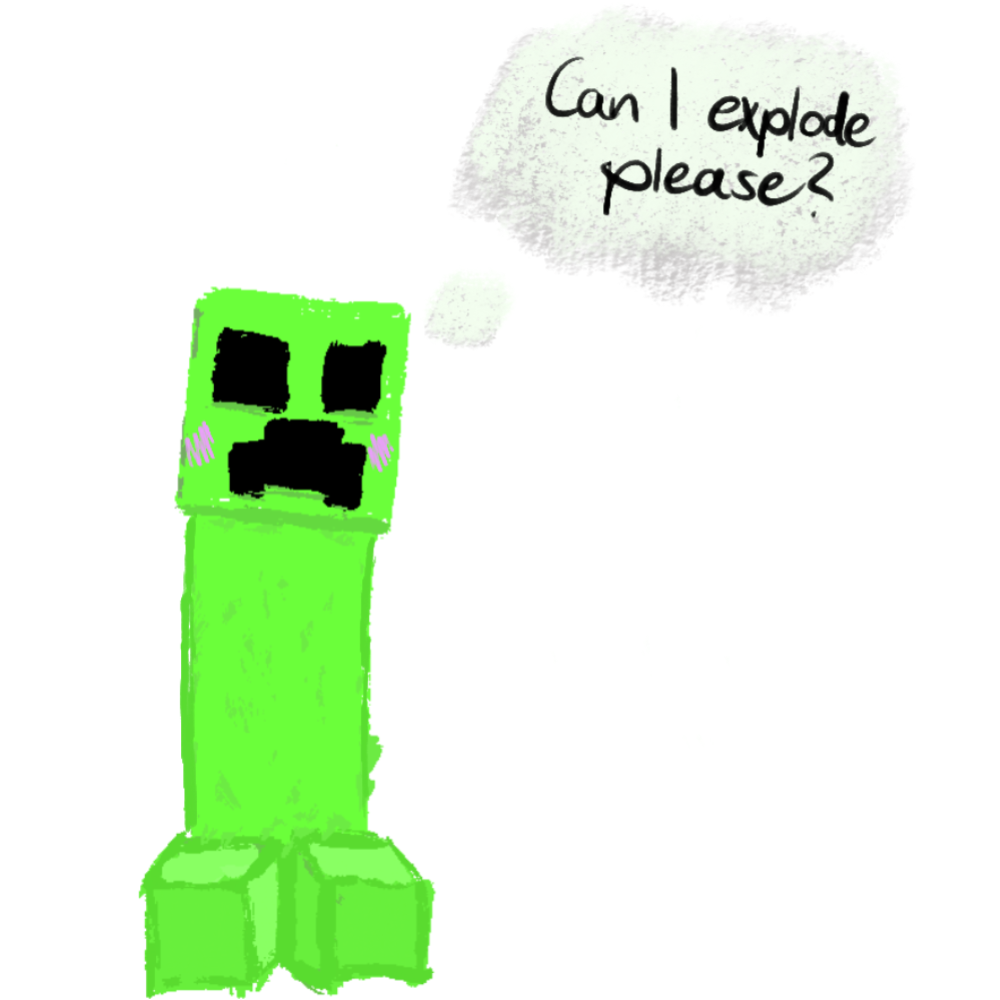
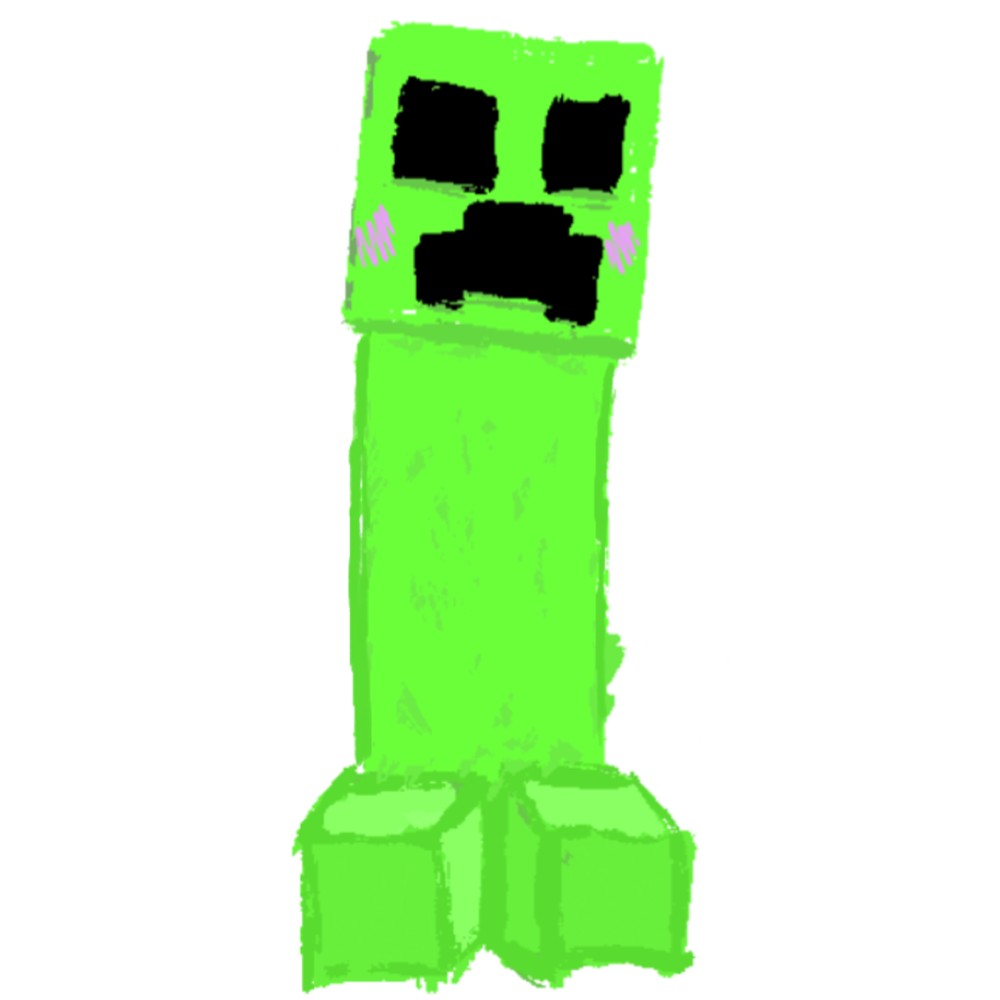
New Screen layout, and README fix

diff --git a/src/client/kotlin/wuritz/bcc/client/screens/ConsentScreen.kt b/src/client/kotlin/wuritz/bcc/client/screens/ConsentScreen.kt
@@ -10,7 +10,7 @@ import net.minecraft.client.gui.components.StringWidget
 import net.minecraft.client.gui.components.Tooltip
 import net.minecraft.client.gui.screens.Screen
 import net.minecraft.network.chat.Component
-import wuritz.bcc.client.utils.CreeperPersonalities
+import wuritz.bcc.BetterCreeperConsent
 import wuritz.bcc.client.utils.Creepers
 import wuritz.bcc.client.utils.RenderUtils
 import wuritz.bcc.network.payloads.ResponsePayload
@@ -20,6 +20,7 @@ class ConsentScreen(val creeperId: Int) : Screen(Component.literal("Consent")) {
 
     val creeper = Creepers().getRandomCreeper()
     val creeperVisual = Creepers().getImage(creeper.imagePath)
+    val signId = BetterCreeperConsent.id("others/sign.png")
 
     // box
     val BOX_WIDTH = 230
@@ -35,6 +36,9 @@ class ConsentScreen(val creeperId: Int) : Screen(Component.literal("Consent")) {
     val totalButtonWidth = 150
 
     override fun init() {
+        /**
+         * Text
+         */
         addRenderableWidget(StringWidget(Component.literal("A creeper is asking for permission to explode."), Minecraft.getInstance().font))
             .setPosition(width / 2 - RenderUtils.getTextWidth("A creeper is asking for permission to explode.") / 2,
                 height / 8)
@@ -42,12 +46,22 @@ class ConsentScreen(val creeperId: Int) : Screen(Component.literal("Consent")) {
             .setPosition(width / 2 - RenderUtils.getTextWidth("Make your decision!") / 2,
                 height / 8 + Minecraft.getInstance().font.lineHeight + 5)
 
-        addRenderableWidget(ImageWidget.texture(250, 250, creeperVisual, 250, 250))
+        /**
+         * Pictures
+         */
+        addRenderableWidget(ImageWidget.texture(200, 200, creeperVisual, 200, 200))
             .setPosition(getPictureX(), getPictureY())
 
+        addRenderableWidget(ImageWidget.texture(100, 50, signId, 100, 50))
+            .setPosition(getPictureX() + 50, (height * 0.75 - 73).toInt())
+        addRenderableWidget(StringWidget(Component.literal("Helobelo :3"), Minecraft.getInstance().font))
+            .setPosition(getPictureX() + 50 + 25, (height * 0.75 - 73 + 20).toInt())
+
         /**
-         * Allow
+         * Buttons
          */
+
+        // Allow
         addRenderableWidget(Button.builder(Component.literal(creeper.answers.allow)) { b -> pressedAllow() }
             .bounds(getButtonX(), getAllowButtonY(), totalButtonWidth, BUTTON_HEIGHT)
             .tooltip(Tooltip.create(Component.literal(
@@ -55,9 +69,7 @@ class ConsentScreen(val creeperId: Int) : Screen(Component.literal("Consent")) {
             ).withStyle(ChatFormatting.GREEN)))
             .build())
 
-        /**
-         * Deny
-         */
+        // Deny
         addRenderableWidget(Button.builder(Component.literal(creeper.answers.deny)) { b -> pressedDeny() }
             .bounds(getButtonX(), getDenyButtonY(), totalButtonWidth, BUTTON_HEIGHT)
             .tooltip(Tooltip.create(Component.literal(
@@ -65,9 +77,7 @@ class ConsentScreen(val creeperId: Int) : Screen(Component.literal("Consent")) {
             ).withStyle(ChatFormatting.RED)))
             .build())
 
-        /**
-         * Gambling
-         */
+        // Gambling
         addRenderableWidget(Button.builder(Component.literal(creeper.answers.gambling)) { b -> pressedGambling() }
             .bounds(getButtonX(), getGamblingButtonY(), totalButtonWidth, BUTTON_HEIGHT)
             .tooltip(Tooltip.create(Component.literal(

diff --git a/README.md b/README.md
@@ -104,14 +104,18 @@ You can win various creeper-related items:
 > There's also a 5% chance you get an **ignited TNT** in the place of the creeper, instead of getting an item drop.
 
 <h2 align="center">Installation</h2>
-1. Download the latest `.jar` file from here or from Modrinth
-2. Locate your `mods/` folder
-3. Put the BCC `.jar` file alongside with your Fabric API and Kotlin `.jar` files
-4. Have fun!
+<ol>
+    <li>Download the latest `.jar` file from here or from Modrinth</li>
+    <li>Locate your `mods/` folder</li>
+    <li>Put the BCC `.jar` file alongside with your Fabric API and Kotlin `.jar` files</li>
+    <li>Have fun!</li>
+</ol>
 
 <h2 align="center">Credits</h2>
-- Thank you to my *lovely girlfriend* for making the illustrations, including the logo and the creepers :33
-- [Creeper's Consent](https://github.com/GameMech007-git/Creeper-Consent) by GameMech007, giving the code foundation and the original idea for the mod
+<ul>
+    <li>Thank you to my *lovely girlfriend* for making the illustrations, including the logo and the creepers :33</li>
+    <li>[Creeper's Consent](https://github.com/GameMech007-git/Creeper-Consent) by GameMech007, giving the code foundation and the original idea for the mod</li>
+</ul>
 
 ## License
 MIT © wuritz
